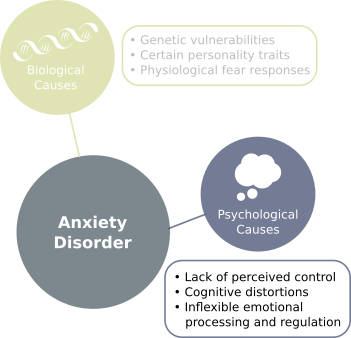
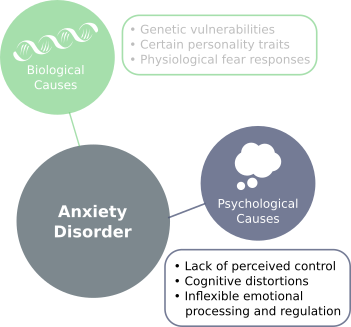
change mindtrails color theme - remove red and use two different greens. Also change colors in all the figure images

diff --git a/src/mindtrails_material.scss b/src/mindtrails_material.scss
@@ -35,30 +35,30 @@ $mindtrails-blue: (
   )
 );
 
-$mindtrails-red: (
-  50 : #ffdfd5,
-  100 : #f8bdb9,
-  200 : #d99997,
-  300 : #ba7572,
-  400 : #a35958,
-  500 : #8c3d3e,
-  600 : #7f3538,
-  700 : #6e292e,
-  800 : #5e1d27,
-  900 : #4d0f1d,
-  A100 : #e4e6bc,
-  A200 : #d2d692,
-  A400 : #b5bb4f,
-  A700 : #8d8d29,
+$mindtrails-green: (
+  50 : #def6f2,
+  100 : #aee9de,
+  200 : #73dcc9,
+  300 : #17cdb2,
+  400 : #00c0a0,
+  500 : #00b28f,
+  600 : #00a481,
+  700 : #009370,
+  800 : #008262,
+  900 : #006544,
+  A100 : #c4e8c5,
+  A200 : #9dd9a0,
+  A400 : #4fc05b,
+  A700 : #009327,
   contrast: (
     50 : #000000,
     100 : #000000,
     200 : #000000,
     300 : #000000,
-    400 : #ffffff,
-    500 : #ffffff,
-    600 : #ffffff,
-    700 : #ffffff,
+    400 : #000000,
+    500 : #000000,
+    600 : #000000,
+    700 : #000000,
     800 : #ffffff,
     900 : #ffffff,
     A100 : #000000,
@@ -69,7 +69,7 @@ $mindtrails-red: (
 );
 
 $mindtrails-primary: mat-palette($mindtrails-blue);
-$mindtrails-accent: mat-palette($mindtrails-red);
+$mindtrails-accent: mat-palette($mindtrails-green);
 $mindtrails-warn: mat-palette($mat-deep-orange);
 
 $mindtrails-theme: mat-light-theme($mindtrails-primary, $mindtrails-accent, $mindtrails-warn);
